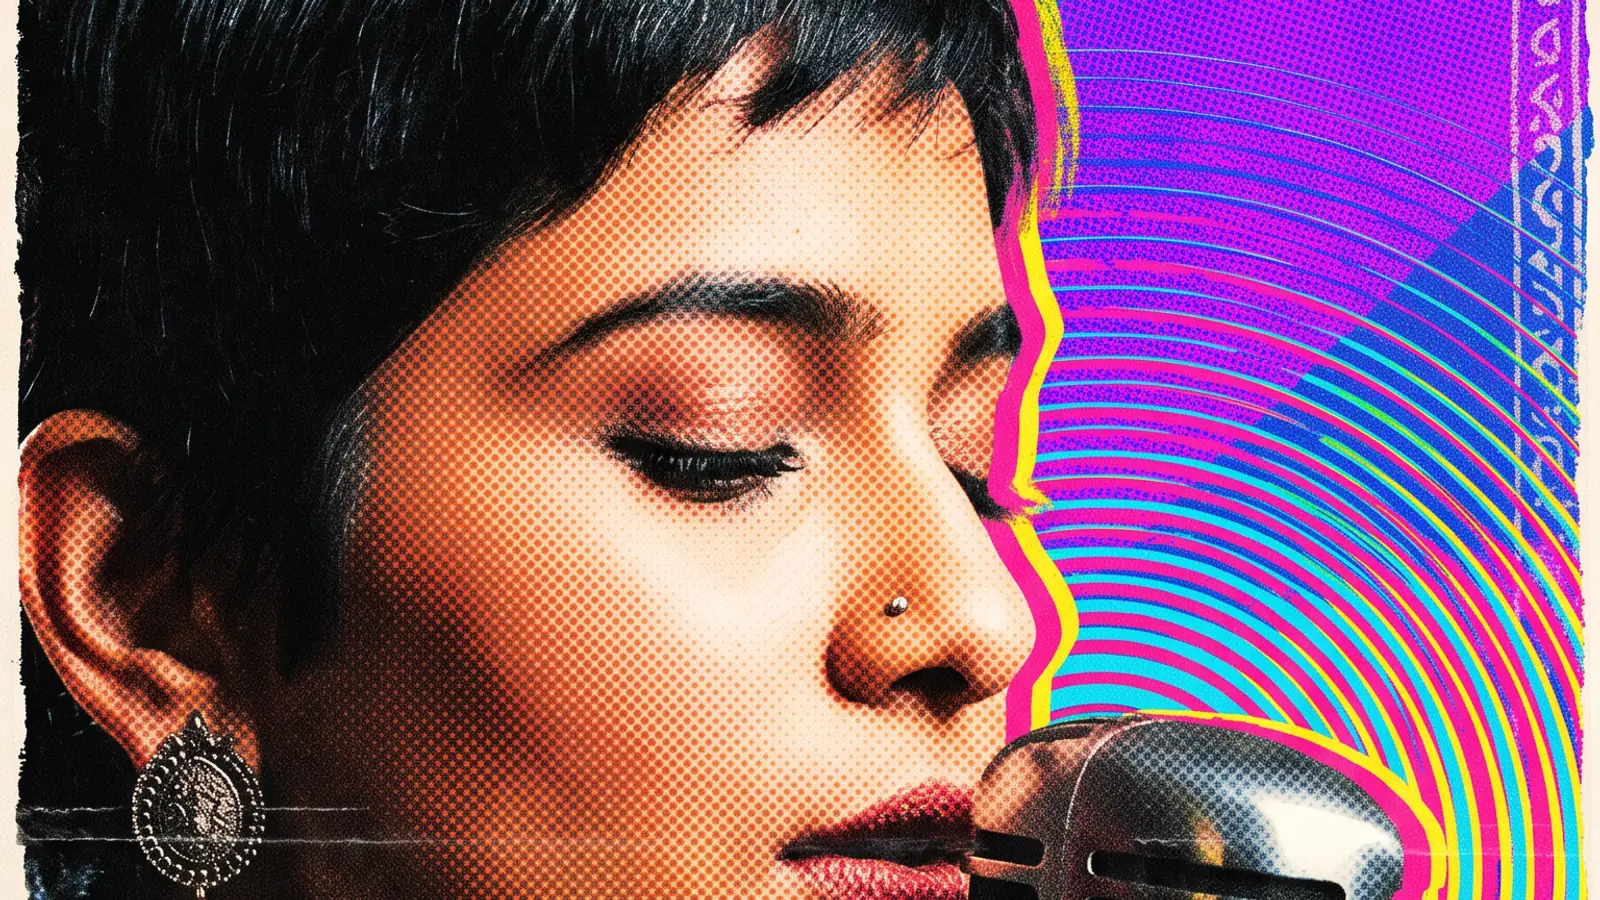
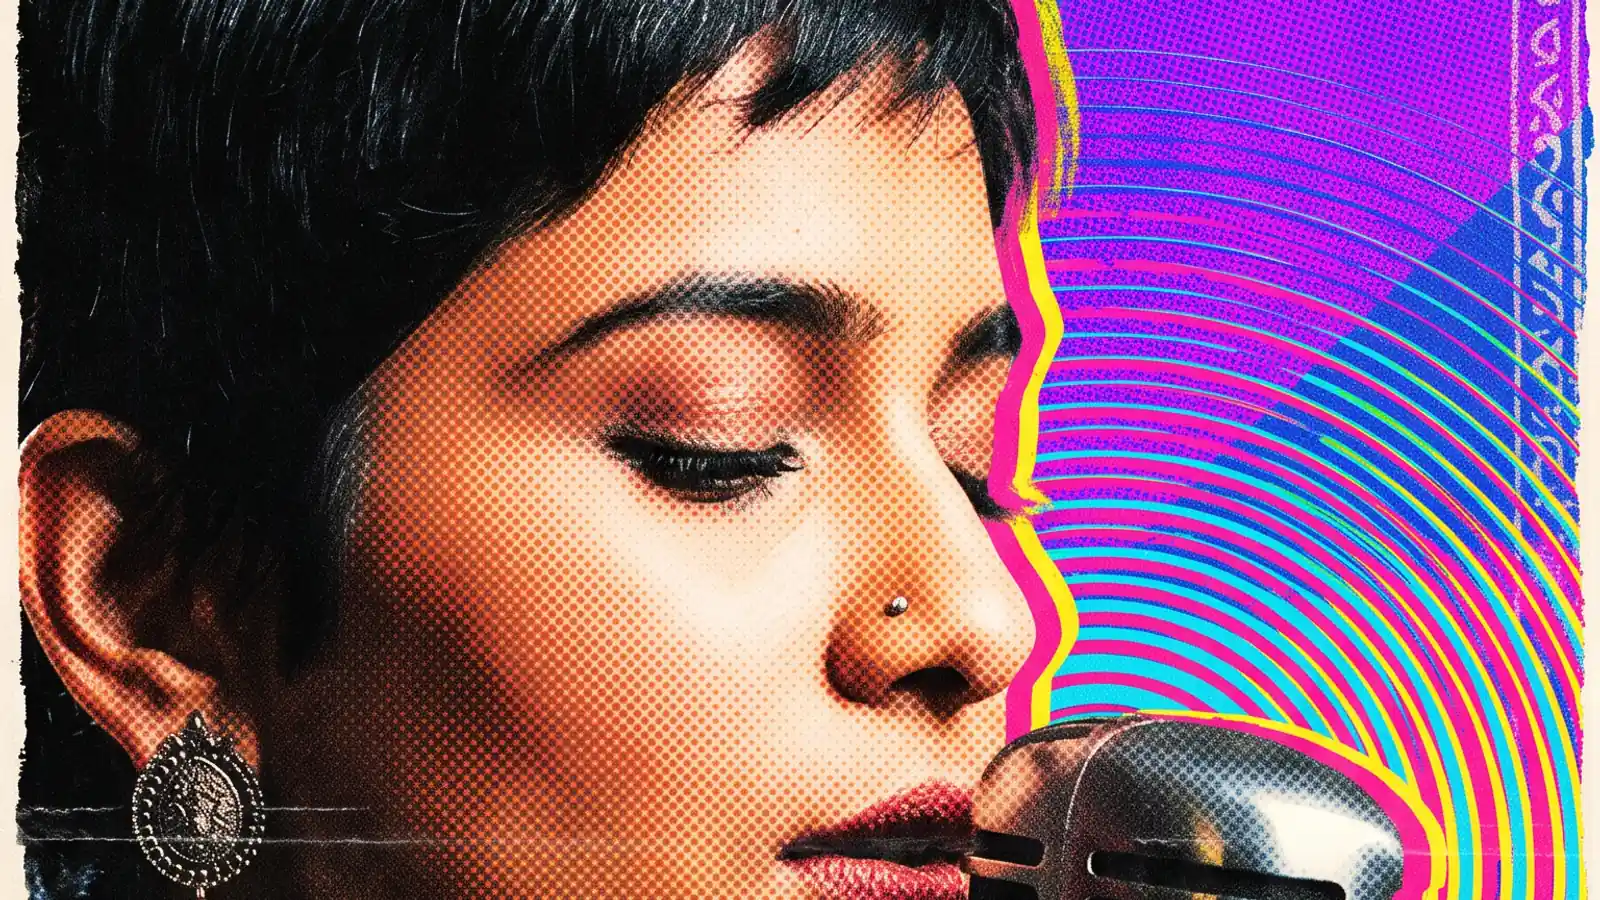
Point config at koolkalakaars.in; shrink hero WebP fallbacks; exclude raw art
- Live domain is .in, not .com.
- Hero WebP fallbacks were 284 KB and 248 KB against 40 KB AVIFs, for the same
  image under the same 71% scrim. Re-encoded to 167 KB and 145 KB.
- Images/ (44 MB of source PNGs) is out of git. The encoded output in
  public/hero is committed, so builds do not need it.

diff --git a/content/site.config.ts b/content/site.config.ts
@@ -144,10 +144,10 @@ export const siteConfig = {
 
     /**
      * The website address, with no slash at the end.
-     * TODO: replace with the real domain once it is registered.
+     * The live domain.
      * Used for Google search results, sharing previews and the sitemap.
      */
-    url: "https://koolkalakaars.com",
+    url: "https://koolkalakaars.in",
 
     /** One line, shown under the name in the hero. */
     tagline: "The stage Nagpur musicians have been waiting for.",
